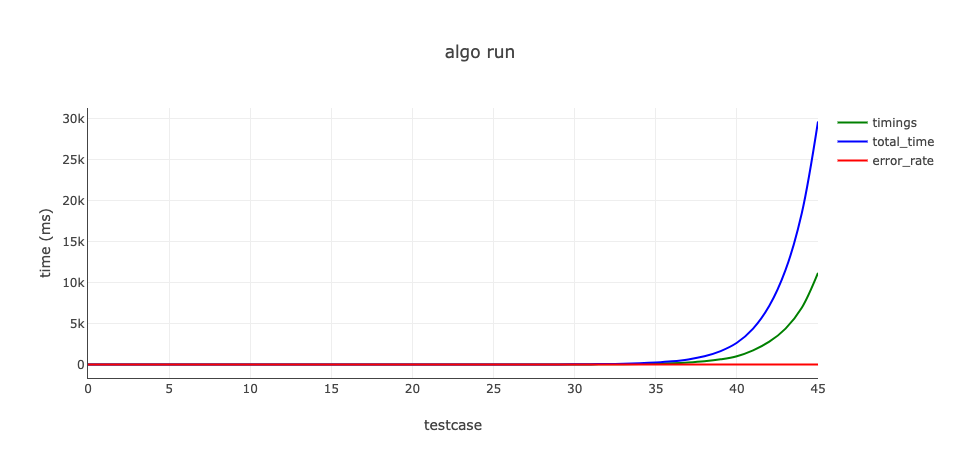
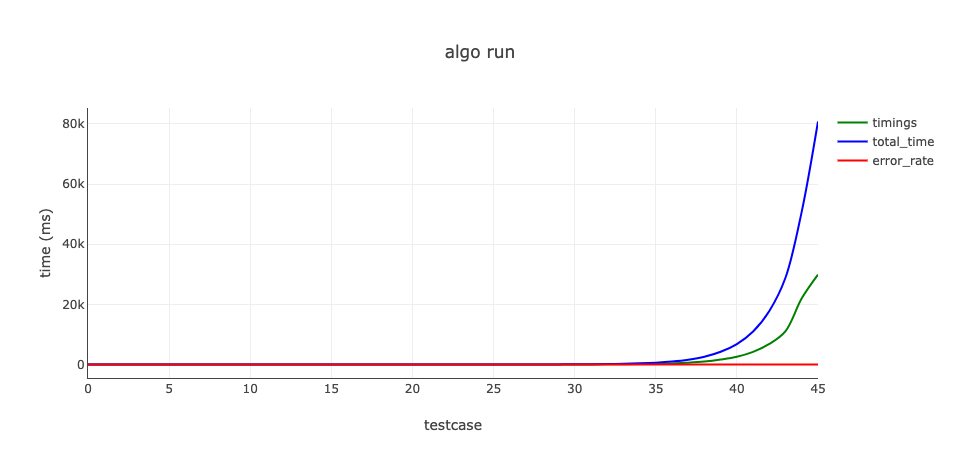
feat: update test samples generation

diff --git a/algos/fibonacci.js b/algos/fibonacci.js
@@ -1,17 +1,15 @@
-const TEST_CASES = require("./testcases/fibonacci");
-
 function runRecursive(n) {
-  if (!n || n <= 1) {
+  if (!n || n <= 1n) {
     return n;
   }
 
-  return runRecursive(n - 2) + runRecursive(n - 1);
+  return runRecursive(n - 2n) + runRecursive(n - 1n);
 }
 
 function runRecursiveMemo(n) {
   const memo = {};
   function calculate(n) {
-    if (!n || n <= 1) {
+    if (!n || n <= 1n) {
       return n;
     }
 
@@ -19,7 +17,7 @@ function runRecursiveMemo(n) {
       return memo[n];
     }
 
-    const result = calculate(n - 2) + calculate(n - 1);
+    const result = calculate(n - 2n) + calculate(n - 1n);
     memo[n] = result;
     return result;
   }
@@ -28,13 +26,13 @@ function runRecursiveMemo(n) {
 }
 
 function runLoop(n) {
-  if (n <= 1) {
+  if (n <= 1n) {
     return n;
   }
-  let number = 0;
-  let prev1 = 0;
-  let prev2 = 1;
-  for (let i = 1; i < n; i++) {
+  let number = 0n;
+  let prev1 = 0n;
+  let prev2 = 1n;
+  for (let i = 1n; i < n; i++) {
     number = prev1 + prev2;
     prev1 = prev2;
     prev2 = number;
@@ -42,17 +40,31 @@ function runLoop(n) {
   return number;
 }
 
-function test(fn, n) {
-  if (fn === runRecursive && n > 45) {
+function test(fn, testCases, n) {
+  if (fn === runRecursive && n > 45n) {
     return null;
   }
-  n = parseInt(n, 10);
-  return fn(n) === TEST_CASES[n];
+  if (fn === runRecursiveMemo && n > 10000n) {
+    return null;
+  }
+  n = BigInt(n);
+  return fn(n) === testCases[n];
 }
+
+function getTestCases(n) {
+  const result = {};
+  for (let i = 0n; i < n; i++) {
+    result[i] = runLoop(i);
+  }
+  return result;
+}
+
+const maxTestCases = 50000n;
 
 module.exports = {
   name: "Fibonacci",
   algos: { runRecursive, runRecursiveMemo, runLoop },
   test,
-  testCases: TEST_CASES,
+  maxTestCases,
+  getTestCases,
 };

diff --git a/index.js b/index.js
@@ -1,7 +1,7 @@
 const { readdirSync, writeFileSync } = require("fs");
 const { join } = require("path");
 
-const { genPlot } = require("./utils");
+const { genPlot, log } = require("./utils");
 
 async function main() {
   const algosBatchs = readdirSync(join(__dirname, "algos"))
@@ -10,9 +10,12 @@ async function main() {
   const plots = [];
 
   for (const algoBatch of algosBatchs) {
-    const { name, algos, test, testCases } = algoBatch;
-    console.log(`Running ${name}...`);
+    const { name, algos, test, maxTestCases, getTestCases } = algoBatch;
+    log(`Generating test cases for ${name}...`);
+    const testCases = getTestCases(maxTestCases);
     for (const algoKey in algos) {
+      log(`Running ${name}/${algoKey}...`);
+
       const timings = {};
       const errorRates = {};
       const totalTimes = {};
@@ -21,7 +24,7 @@ async function main() {
       let startTotalTime = Date.now();
       for (const testCase in testCases) {
         const start = Date.now();
-        const testResult = test(algos[algoKey], testCase);
+        const testResult = test(algos[algoKey], testCases, testCase);
         if (testResult === null) {
           // incapable
           break;
@@ -35,7 +38,13 @@ async function main() {
         casesRan++;
       }
       const totalTime = Date.now() - startTotalTime;
-      const filename = await genPlot(name, algoKey, timings, totalTimes, errorRates);
+      const filename = await genPlot(
+        name,
+        algoKey,
+        timings,
+        totalTimes,
+        errorRates,
+      );
       plots.push({ name, algoKey, filename, totalTime, casesRan });
     }
   }

diff --git a/utils/index.js b/utils/index.js
@@ -3,6 +3,10 @@ const { join } = require("path");
 const Plot = require("plotly-notebook-js");
 const puppeteer = require("puppeteer");
 
+function log(...data) {
+  console.log(new Date().toISOString(), ...data);
+}
+
 async function genPlot(batchName, algoKey, timings, totalTimes, errorRates) {
   const algoPlot = Plot.createPlot(
     [
@@ -57,4 +61,4 @@ async function genPlot(batchName, algoKey, timings, totalTimes, errorRates) {
   return filename;
 }
 
-module.exports = { genPlot };
+module.exports = { genPlot, log };

diff --git a/README.md b/README.md
@@ -1,10 +1,10 @@
 # Plots generated by `./algos/*.js`
 ## Fibonacci/runRecursive
-Total time: 29645, Cases 46 
+Total time: 80808, Cases 46 
 ![Fibonacci_runRecursive.png](./plots/Fibonacci_runRecursive.png)
 ## Fibonacci/runRecursiveMemo
-Total time: 15, Cases 1000 
+Total time: 12016, Cases 10001 
 ![Fibonacci_runRecursiveMemo.png](./plots/Fibonacci_runRecursiveMemo.png)
 ## Fibonacci/runLoop
-Total time: 2, Cases 1000 
+Total time: 292709, Cases 50000 
 ![Fibonacci_runLoop.png](./plots/Fibonacci_runLoop.png)
